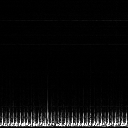
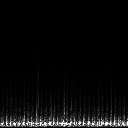
add mel spectrogram

Changed region(s): [[0.0, 0.75, 1.0, 1.0], [0.875, 0.7812, 0.9062, 0.8125], [0.5, 0.7188, 0.5312, 0.75]]

diff --git a/source/heartbeats/test.py b/source/heartbeats/test.py
@@ -27,7 +27,7 @@ librosa.feature.mfcc(y=y, sr=sr)
 
 S = librosa.feature.melspectrogram(y=y, sr=sr)
 
-pylab.figure(figsize=(10, 4))
+pylab.figure(figsize=(4, 4))
 pylab.axis('off')
 pylab.axes([0., 0., 1., 1.], frameon=False, xticks=[], yticks=[])  # Remove the white edge
 librosa.display.specshow(librosa.power_to_db(S, ref=np.max))
@@ -49,9 +49,25 @@ mfccs = librosa.feature.mfcc(S=librosa.power_to_db(S, ref=np.max))
 # Visualize the MFCC series
 #librosa.display.specshow(mfccs, cmap='Set1',x_axis='time')
 # Plotting the spectrogram and save as JPG without axes (just the image)
-pylab.figure(figsize=(10, 4))
-pylab.axis('off')
-pylab.axes([0., 0., 1., 1.], frameon=False, xticks=[], yticks=[])  # Remove the white edge
-librosa.display.specshow(mfccs, cmap='Set1')
-pylab.savefig('test.jpg', bbox_inches=None, pad_inches=0)
-pylab.close()
+cmaps = [
+            'inferno', 'magma', 'plasma', 'viridis', 'BrBG', 'PiYG', 'PRGn',
+            'PuOr', 'RdBu', 'RdGy', 'RdYlBu', 'RdYlGn', 'Spectral',
+            'Blues', 'BuGn', 'BuPu', 'GnBu', 'Greens', 'Greys', 'Oranges', 'OrRd', 'PuBu', 'PuBuGn', 'PuRd',
+            'Purples', 'RdPu', 'Reds', 'YlGn', 'YlGnBu', 'YlOrBr', 'YlOrRd', 'Accent', 'Dark2', 'Paired',
+            'Pastel1', 'Pastel2','Set1', 'Set2', 'Set3', 'autumn', 'bone', 'cool', 'copper', 'flag', 'gray', 'hot',
+            'jet', 'pink', 'prism', 'spring', 'summer', 'winter', 'gist_earth', 'gist_heat', 'gist_ncar', 'gist_rainbow',
+            'gist_stern', 'hsv', 'twilight', 'twilight_shifted', 'afmhot', 'brg', 'bwr', 'coolwarm', 'CMRmap',
+            'cubehelix', 'gnuplot', 'gnuplot2', 'ocean', 'rainbow', 'seismic', 'nipy_spectral', 'terrain',
+            'gist_gray', 'gist_yarg', 'binary'
+         ]
+#
+# pylab.figure(figsize=(4, 4))
+# pylab.axis('off')
+# pylab.axes([0., 0., 1., 1.], frameon=False, xticks=[], yticks=[])  # Remove the white edge
+#
+# for cmap in cmaps:
+#     print(cmap)
+#     librosa.display.specshow(mfccs, cmap=str(cmap))
+#     pylab.savefig('test-'+str(cmap)+'.jpg', bbox_inches=None, pad_inches=0)
+#
+# pylab.close()

diff --git a/source/heartbeats/sound_utils_tf.py b/source/heartbeats/sound_utils_tf.py
@@ -49,7 +49,7 @@ png = tf.image.encode_png(cast)
 with tf.Session() as sess:
     # Run the computation graph and save the png encoded image to a file
     image = sess.run(png, feed_dict={
-      wav_file: 'data/training/training-a/a0001.wav', brightness: 100})
+      wav_file: '/Users/mohamedfawzy/Workspace/panotti/examples/physionet2016/training-a/a0059.wav', brightness: 100})
 
     with open('output.png', 'wb') as f:
         f.write(image)
